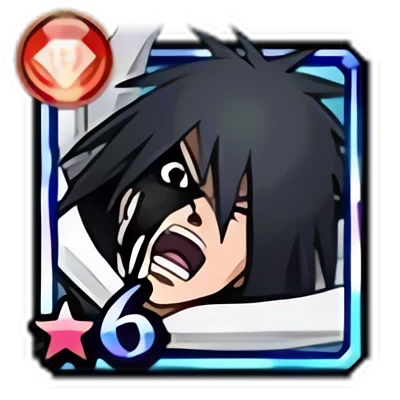
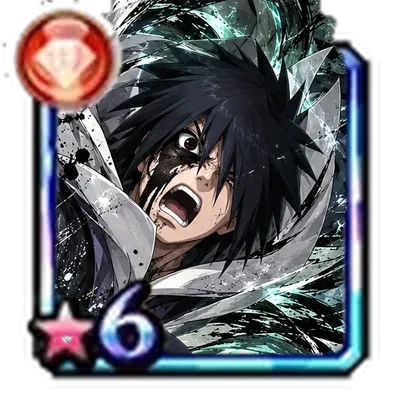
New 6S art and portraits: Obito "Into Total Darkness", Sai "Ink Drawn from the Heart"
obito_671 (6SB) and sai_501 (6S): each card's 6S art is replaced at
1200 px, and its portrait (400 px) now crops the face from the new art
inside the card's own frame, element orb and star badge. Both join
data/full-bleed-art.json (shown whole) and leave data/art-framing.json.
Service worker cache v228.

Claude-Session: https://claude.ai/code/session_01MPkQZmTse15eos3hLfcEoZ

diff --git a/sw.js b/sw.js
@@ -1,4 +1,4 @@
-const CACHE = 'blazing-shell-v227';
+const CACHE = 'blazing-shell-v228';
 const BASE = new URL('./', self.location.href).pathname;
 const SHELL = [
   'index.html',
